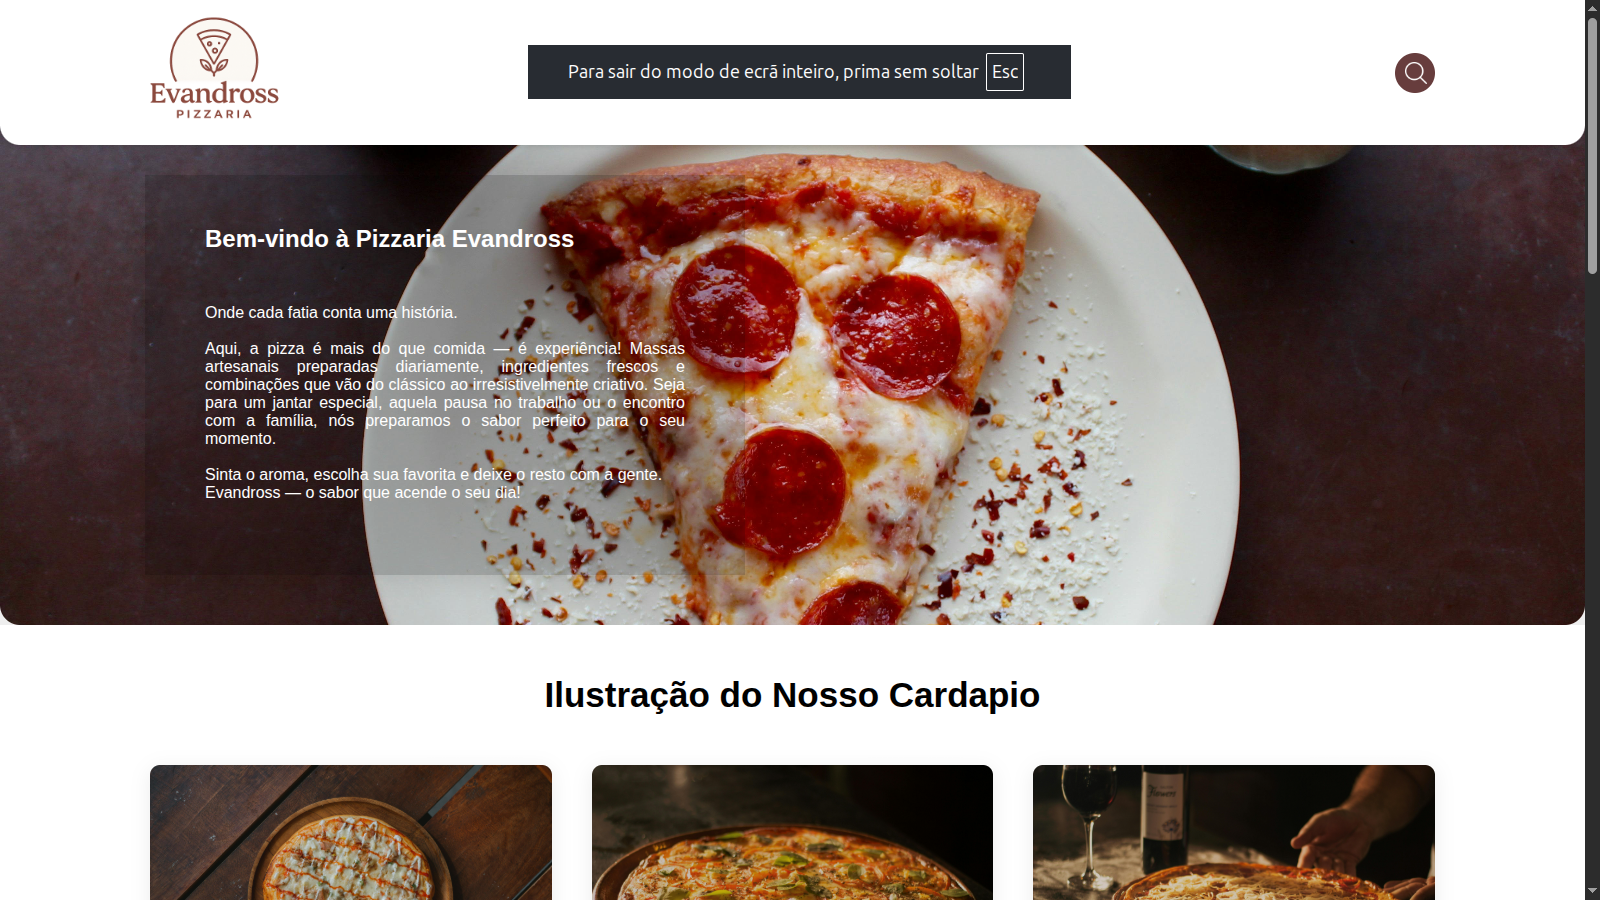
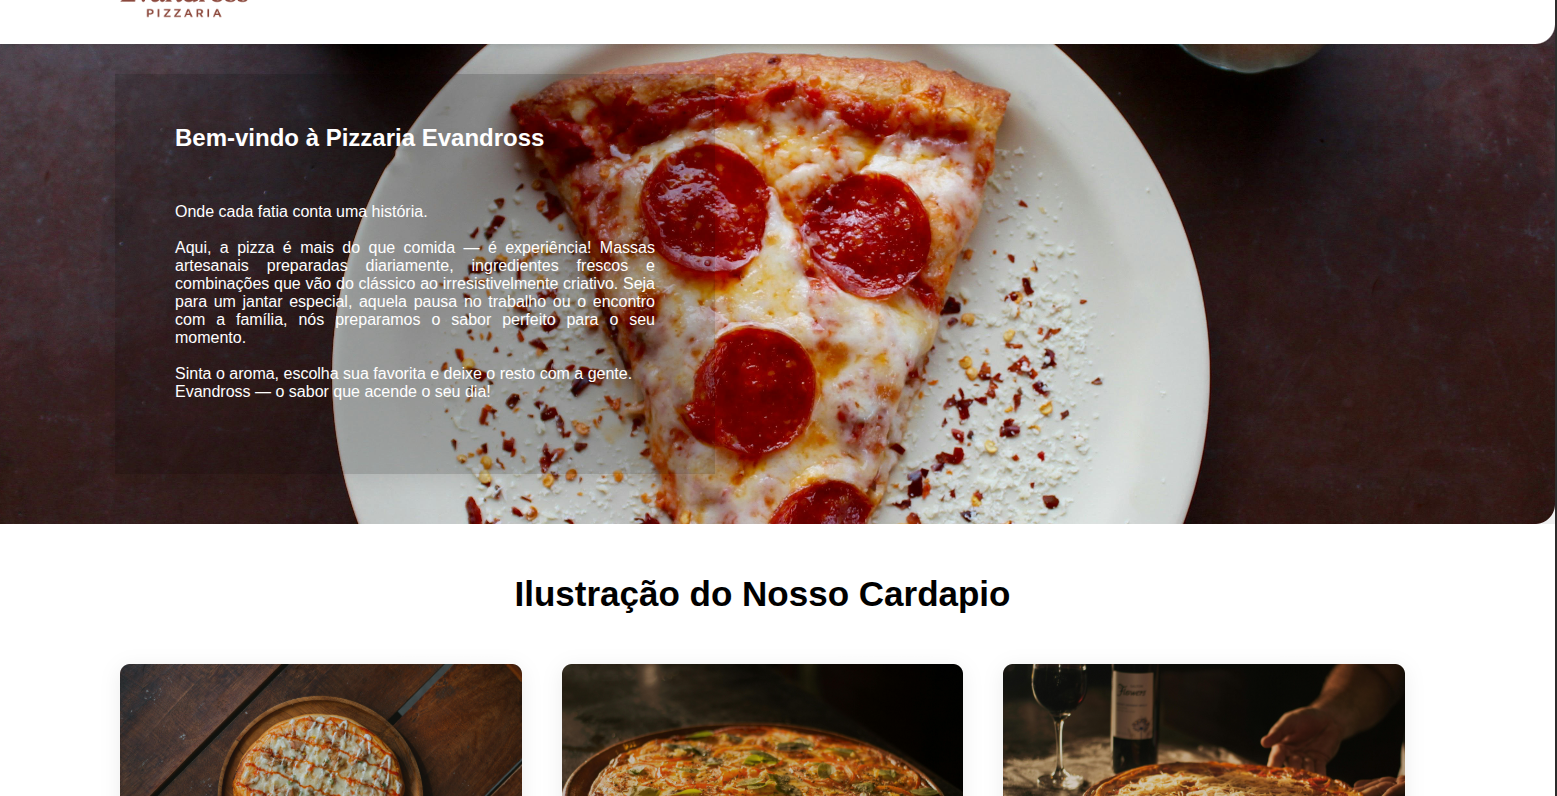
finalizando 02_feat: ref-producion

diff --git a/app/components/Hero.tsx b/app/components/Hero.tsx
@@ -2,8 +2,8 @@ import { Reveal } from "./Reveal";
 
 const stats = [
   { label: "Eu sou", number: "01", title: <>Dev. <br /> Pleno</>, text: <>Junior sim, mas com sede <br /> de aprender e entregar.</>, direction: "direcX" },
-  { label: "Domínios", number: "02", title: <>Web <br /> Developer</>, text: <>soluções rápidas <br /> responsivas e funcionais.</>, direction: "direcY" },
-  { label: "Domínios", number: "03", title: <>Mobile <br /> Developer</>, text: <>Apps que funcionam,<br /> código que aprendo. funcionais.</>, direction: "direcX" },
+  { label: "Domínios", number: "02", title: <>Java <br /> Developer</>, text: <>soluções robustas <br /> e sistemas críticos.</>, direction: "direcY" },
+  { label: "Domínios", number: "03", title: <>Mobile <br /> Developer</>, text: <>Apps que funcionam,<br /> código que aprendo.</>, direction: "direcX" },
 ];
 
 export function Hero() {
@@ -14,14 +14,15 @@ export function Hero() {
           <div className="flex w-full flex-col leading-none text-[#0a0a0a]">
             <h1 className="text-[60px] max-md:text-[clamp(40px,11vw,60px)] max-[480px]:text-[42px]">Quem eu sou ?</h1>
             <br /><br />
-            <h1 className="bg-gradient-to-r from-black/65 to-[#58f0a7] bg-clip-text text-[60px] text-transparent max-md:text-[clamp(40px,11vw,60px)] max-[480px]:text-[42px]">Frontend Dev</h1>
+            <h1 className="bg-gradient-to-r from-black/65 to-[#58f0a7] bg-clip-text text-[60px] text-transparent max-md:text-[clamp(40px,11vw,60px)] max-[480px]:text-[42px]">Software Dev:</h1>
             <h1 className="text-[60px] max-md:text-[clamp(40px,11vw,60px)] max-[480px]:text-[42px]">Vanilson da</h1>
             <h1 className="text-[60px] max-md:text-[clamp(40px,11vw,60px)] max-[480px]:text-[42px]">Costa.</h1>
           </div>
 
           <div className="flex flex-col gap-1.5 border-l border-[#58f0a7] p-[15px] text-[14px] text-[#0a0a0a]">
-            <p>Sou Vanilson, 21 anos, estudante do 13ª ano no Instituto de Telecomunicações.</p>
-            <p>Frontend júnior com React e React Native, mas já olho para o backend,</p>
+            <p>Sou Vanilson da Costa, nascido em 2005, estagiário no Instituto de Telecomunicações (ITEL).</p>
+            <p>Construo interfaces gráficas completas para aplicações web e mobile, com foco no desenvolvimento de software, integração de sistemas e criação de soluções tecnológicas funcionais e eficientes.</p>
+   <p>Participei no Coding Angola 2025 e, em 2026, integrei a equipa responsável pela infraestrutura de redes da FITITEL, uma das maiores feiras de tecnologia de Angola. Experiências que fortaleceram as minhas competências técnicas, capacidade de resolução de problemas e trabalho em equipa.</p>
           </div>
         </div>
 

diff --git a/app/components/SectionHeading.tsx b/app/components/SectionHeading.tsx
@@ -6,7 +6,7 @@ export function SectionHeading() {
         <h1 className="text-[45px] leading-tight max-md:text-[clamp(30px,9vw,45px)]"> produtos modernos e exigentes.</h1>
       </div>
       <div>
-        <p className="text-[#8b8a8a]">As AAAAminhas habilidades são uma combinações de técnica, direcção visual e atenção aos detalhes para construir experiências </p>
+        <p className="text-[#8b8a8a]">As minhas habilidades são uma combinações de técnica, direcção visual e atenção aos detalhes para construir experiências </p>
         <p className="text-[#8b8a8a]">que não parecem génericas </p>
       </div>
     </div>
